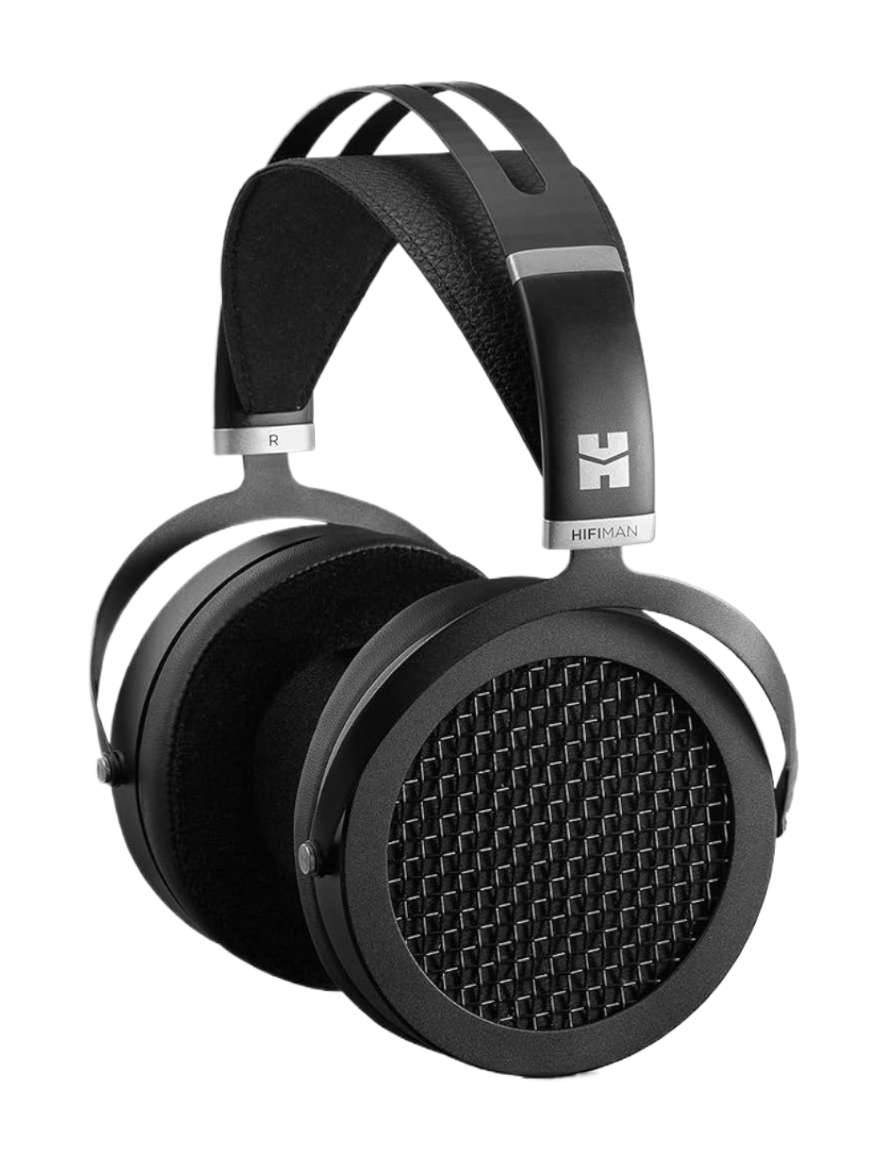
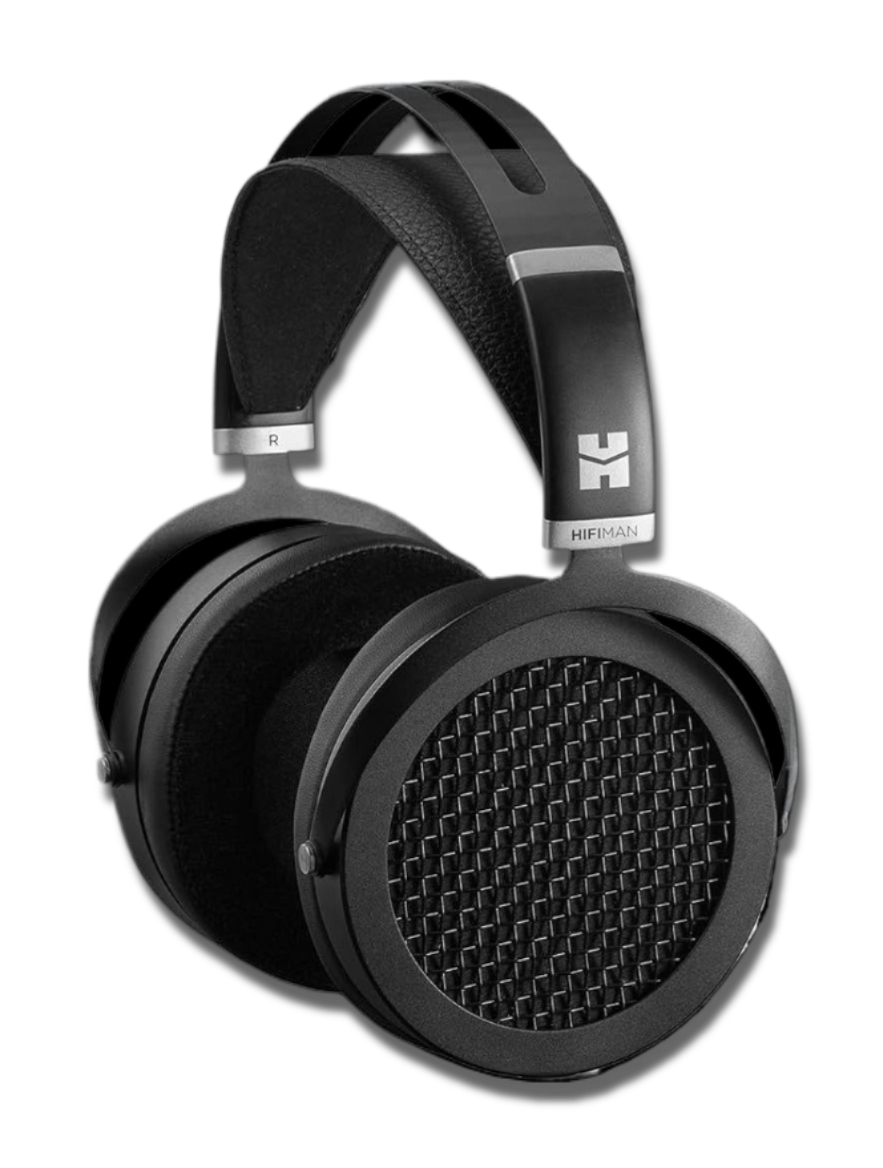
Updated

diff --git a/styles.css b/styles.css
@@ -1639,7 +1639,7 @@ button:hover {
     padding: 7%;
     pointer-events: none;
     position: absolute;
-    transform: scale(0.67);
+    transform: scale(0.90);
     transform-origin: center;
     width: 100%;
     z-index: 3;